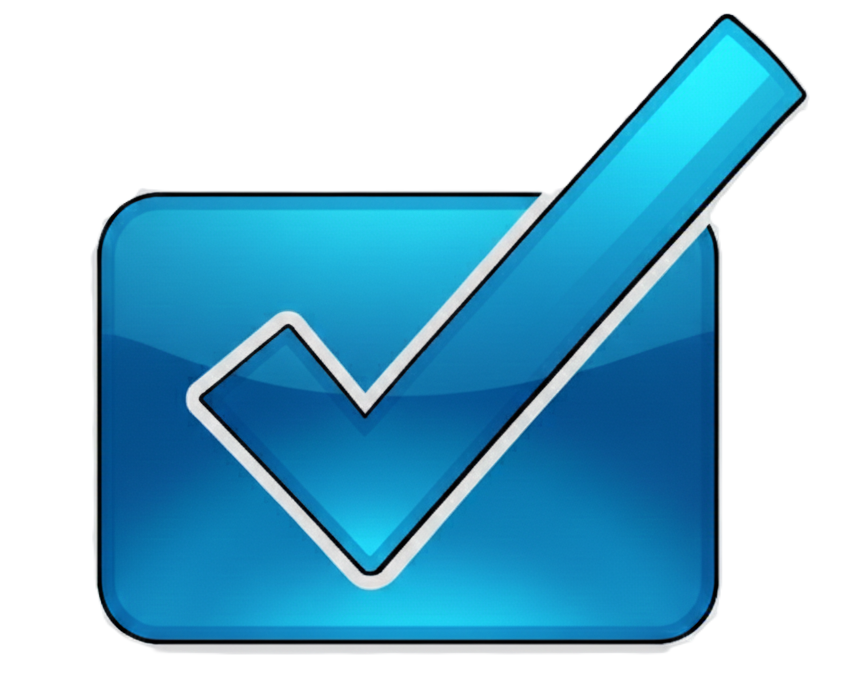
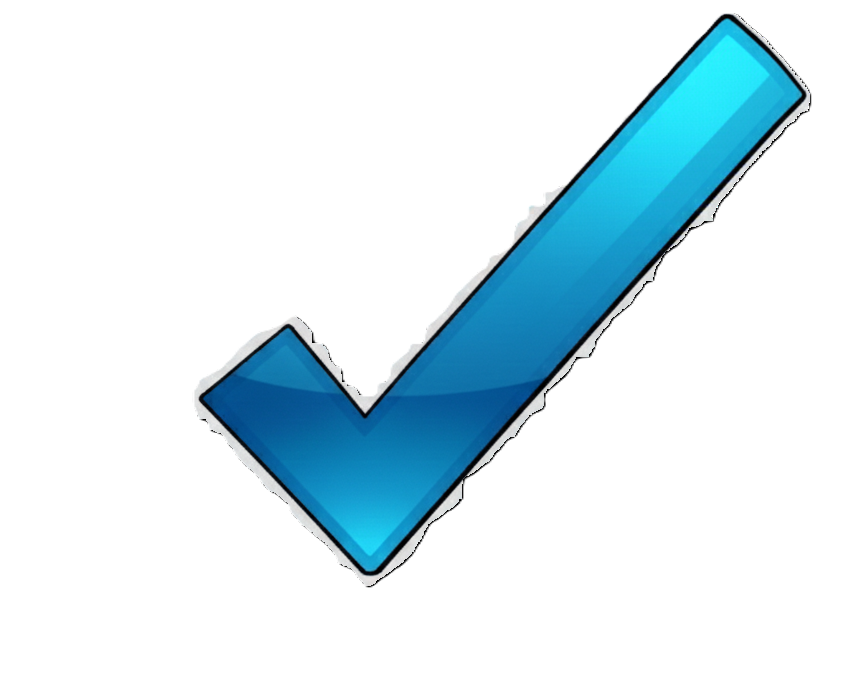
Fix documents and user tables

diff --git a/PetelApp.Api/Controllers/DocumentsController.cs b/PetelApp.Api/Controllers/DocumentsController.cs
@@ -80,7 +80,11 @@ namespace PetelApp.Api.Controllers
                             .FirstOrDefault() ?? "לא מוגדר",
                         CreatedAt = d.CreatedAt,
                         FileSize = d.FileBlob != null ? d.FileBlob.Length : 0,
-                        HasFile = d.FileBlob != null
+                        HasFile = d.FileBlob != null,
+                        UserId = d.UserId,
+                        Username = d.UserId.HasValue 
+                            ? _context.Users.Where(u => u.Id == d.UserId.Value).Select(u => u.Username).FirstOrDefault() 
+                            : null
                     })
                     .ToListAsync();
 
@@ -167,6 +171,10 @@ namespace PetelApp.Api.Controllers
                         CreatedAt = d.CreatedAt,
                         FileSize = d.FileBlob != null ? d.FileBlob.Length : 0,
                         HasFile = d.FileBlob != null,
+                        UserId = d.UserId,
+                        Username = d.UserId.HasValue 
+                            ? _context.Users.Where(u => u.Id == d.UserId.Value).Select(u => u.Username).FirstOrDefault() 
+                            : null,
                         // ✅ Include which student version this document is linked to
                         LinkedStudentId = d.DocumentLinks
                             .Where(dl => dl.SchoolStudentId.HasValue &&
@@ -377,6 +385,10 @@ namespace PetelApp.Api.Controllers
                         CreatedAt = d.CreatedAt,
                         FileSize = d.FileBlob != null ? d.FileBlob.Length : 0,
                         HasFile = d.FileBlob != null,
+                        UserId = d.UserId,
+                        Username = d.UserId.HasValue 
+                            ? _context.Users.Where(u => u.Id == d.UserId.Value).Select(u => u.Username).FirstOrDefault() 
+                            : null,
                         // Get the entity ID from document links
                         EntityId = d.DocumentLinks
                             .Where(dl => dl.EntityId.HasValue)
@@ -397,6 +409,8 @@ namespace PetelApp.Api.Controllers
                     d.CreatedAt,
                     d.FileSize,
                     d.HasFile,
+                    d.UserId,
+                    d.Username,
                     d.EntityId,
                     // Lookup entity name from dictionary
                     EntityName = entityIdToNameMap.TryGetValue(d.EntityId, out var name) ? name : "לא ידוע"
@@ -521,7 +535,8 @@ namespace PetelApp.Api.Controllers
                         CreatedAt = DateTime.UtcNow,
                         MasterDocumentId = null,
                         FileBlob = null,
-                        FileEncoding = string.Empty
+                        FileEncoding = string.Empty,
+                        UserId = int.TryParse(session.UserId, out int uid) ? uid : (int?)null
                     };
 
                     _context.Documents.Add(newDocument);
@@ -763,7 +778,8 @@ namespace PetelApp.Api.Controllers
                         CreatedAt = DateTime.UtcNow,
                         MasterDocumentId = null,
                         FileBlob = null,
-                        FileEncoding = string.Empty
+                        FileEncoding = string.Empty,
+                        UserId = int.TryParse(session.UserId, out int uid) ? uid : (int?)null
                     };
 
                     _context.Documents.Add(newDocument);
@@ -956,7 +972,8 @@ namespace PetelApp.Api.Controllers
                             CreatedAt = DateTime.UtcNow,
                             MasterDocumentId = null,
                             FileBlob = null,
-                            FileEncoding = string.Empty
+                            FileEncoding = string.Empty,
+                            UserId = int.TryParse(session.UserId, out int uid) ? uid : (int?)null
                         };
         
                         _context.Documents.Add(newDocument);
@@ -1178,7 +1195,8 @@ namespace PetelApp.Api.Controllers
                         FileName = originalFileName,
                         Version = existingDoc.Version + 1,
                         IsLastVersion = true,
-                        CreatedAt = DateTime.UtcNow
+                        CreatedAt = DateTime.UtcNow,
+                        UserId = userId
                     };
 
                     _context.Documents.Add(document);
@@ -1280,7 +1298,8 @@ namespace PetelApp.Api.Controllers
                     FileName = existingDoc.FileName,
                     Version = existingDoc.Version + 1,
                     IsLastVersion = true,
-                    CreatedAt = DateTime.UtcNow
+                    CreatedAt = DateTime.UtcNow,
+                    UserId = userId
                 };
 
                 _context.Documents.Add(approvedDocument);

diff --git a/PetelApp.Api/Controllers/UsersController.cs b/PetelApp.Api/Controllers/UsersController.cs
@@ -202,6 +202,56 @@ namespace PetelApp.Api.Controllers
             }
         }
 
+        /// <summary>
+        /// Reset OTP verification for a user
+        /// Sets otp_secret to null and otp_verified to false
+        /// </summary>
+        [HttpPost("{id}/reset-otp")]
+        public async Task<IActionResult> ResetOtpVerification(int id)
+        {
+            try
+            {
+                var session = GetCurrentSession();
+                if (session == null)
+                {
+                    return Unauthorized(new { success = false, message = "נדרש אימות" });
+                }
+
+                var user = await _context.Users.FindAsync(id);
+                if (user == null)
+                {
+                    return NotFound(new { success = false, message = "משתמש לא נמצא" });
+                }
+
+                // Reset OTP verification
+                user.OtpSecret = null;
+                user.OtpVerified = false;
+                user.FailedOtpAttempts = 0;
+                user.UpdatedAt = DateTime.UtcNow;
+                user.UpdateUser = int.TryParse(session.UserId, out int adminId) ? adminId : null;
+
+                await _context.SaveChangesAsync();
+
+                _logger.LogInformation("OTP verification reset for user {UserId} by admin {AdminId}", id, session.UserId);
+
+                return Ok(new
+                {
+                    success = true,
+                    message = "אימות דו-שלבי אופס בהצלחה"
+                });
+            }
+            catch (Exception ex)
+            {
+                _logger.LogError(ex, "Error resetting OTP verification for user {UserId}", id);
+                return StatusCode(500, new
+                {
+                    success = false,
+                    message = "שגיאה באיפוס אימות דו-שלבי",
+                    error = ex.Message
+                });
+            }
+        }
+
 
         /// <summary>
         /// Force user to change password on next login

diff --git a/PetelApp.BlazorServer/DTOs/DocumentDto.cs b/PetelApp.BlazorServer/DTOs/DocumentDto.cs
@@ -12,6 +12,8 @@ namespace PetelApp.BlazorServer.DTOs
         public int DocumentTypeId { get; set; }
         public int StatusId { get; set; }
         public int? DocumentStatusId { get; set; }
+        public int? UserId { get; set; }
+        public string? Username { get; set; }
     }
 
     public class DocumentStatusTypeDto

diff --git a/PetelApp.Api/Data/Document.cs b/PetelApp.Api/Data/Document.cs
@@ -19,6 +19,9 @@ namespace PetelApp.Api.Data
         public bool IsLastVersion { get; set; }
 
         public DateTime CreatedAt { get; set; }
+        
+        [Column("user_id")]
+        public int? UserId { get; set; }
 
         // Navigation properties
         public DocumentType? DocumentType { get; set; }
